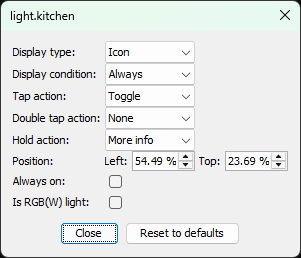
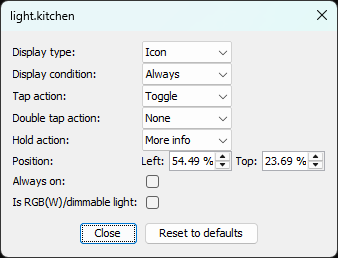
Add support for dimmable, non-RGB, lights
Fixes #124

diff --git a/src/com/shmuelzon/HomeAssistantFloorPlan/Controller.java b/src/com/shmuelzon/HomeAssistantFloorPlan/Controller.java
@@ -858,7 +858,7 @@ public class Controller {
             "      image: /local/floorplan/%s.png?version=%s\n" +
             "      state_image:\n" +
             "        'on': >-\n" +
-            "          ${COLOR_MODE === 'color_temp' || ((COLOR_MODE === 'rgb' || COLOR_MODE === 'hs') && LIGHT_COLOR && LIGHT_COLOR[0] == 0 && LIGHT_COLOR[1] == 0) ?\n" +
+            "          ${COLOR_MODE === 'color_temp' || COLOR_MODE === 'brightness' || ((COLOR_MODE === 'rgb' || COLOR_MODE === 'hs') && LIGHT_COLOR && LIGHT_COLOR[0] == 0 && LIGHT_COLOR[1] == 0) ?\n" +
             "          '/local/floorplan/%s.png?version=%s' :\n" +
             "          '/local/floorplan/%s.png?version=%s' }\n" +
             "      entity: %s\n" +

diff --git a/src/com/shmuelzon/HomeAssistantFloorPlan/EntityOptionsPanel.java b/src/com/shmuelzon/HomeAssistantFloorPlan/EntityOptionsPanel.java
@@ -339,7 +339,7 @@ public class EntityOptionsPanel extends JPanel {
 
         /* Is RGB */
         add(isRgbLabel, new GridBagConstraints(
-            0, currentGridYIndex, 2, 1, 0, 0, GridBagConstraints.CENTER,
+            0, currentGridYIndex, 1, 1, 0, 0, GridBagConstraints.CENTER,
             GridBagConstraints.HORIZONTAL, insets, 0, 0));
         isRgbLabel.setHorizontalAlignment(labelAlignment);
         add(isRgbCheckbox, new GridBagConstraints(

diff --git a/README.md b/README.md
@@ -119,13 +119,14 @@ that allow you to customize the entity according to your needs.
 * Position - Override the entity's icon/label position
 * Always on - Only for lights, set light as always on removing its icon and it
   won't be affected by the matching Home Assistant state
-* Is RGB(W) light - Only for lights, set light as an RGB light that will change
-  its color in the floorplan according to the color set in Home Assistant. This
-  requires installing the
+* Is RGB(W)/dimmable light - Only for lights, set light as an RGB or dimmable
+  light that will change its color and brightness in the floorplan according to
+  the color set in Home Assistant. This requires installing the
   [config-template-card](https://github.com/iantrich/config-template-card)
   custom Lovelace card.
 
-  :warning: **Note:** RGB lights are only supported in the CSS rendering mode.
+  :warning: **Note:** RGB/dimmable lights are only supported in the CSS
+  rendering mode.
 
 ## Preparation
 
